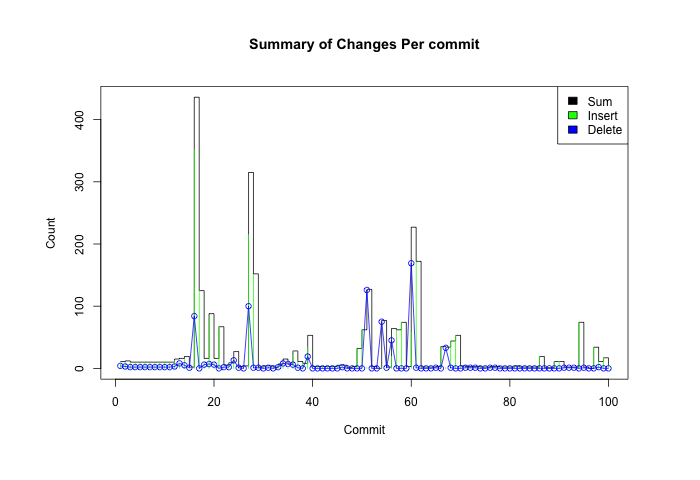
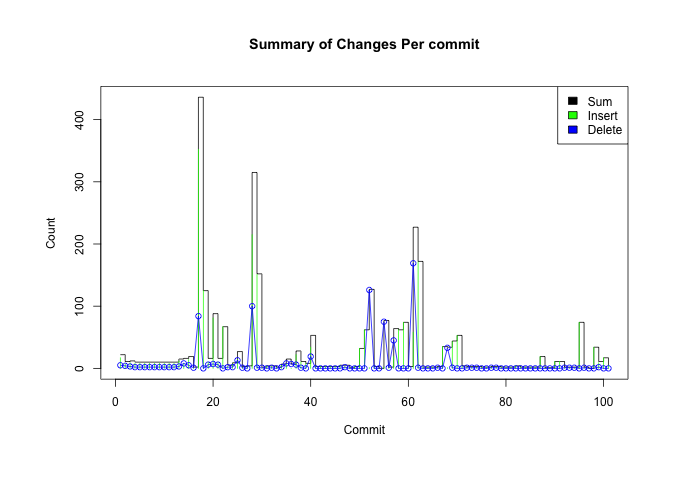
COMMIT #101

diff --git a/README.md b/README.md
@@ -16,8 +16,8 @@ ProjectName::BranchName.data
 
 Project Name | Last Updated | Number of Commits
 :---|:---|:---
-FASTQ_examiner_project                   |  2023-03-28  |  45
-commit_tracker_project                   |  2023-03-25  |  99
+FASTQ_examiner_project                   |  2023-03-29  |  46
+commit_tracker_project                   |  2023-03-28  |  100
 minishell_project                        |  2023-02-03  |  67
 ft_printf_project                        |  2023-01-27  |  36
 test_non-fastforward_merge-push_project  |  2023-01-27  |  15
